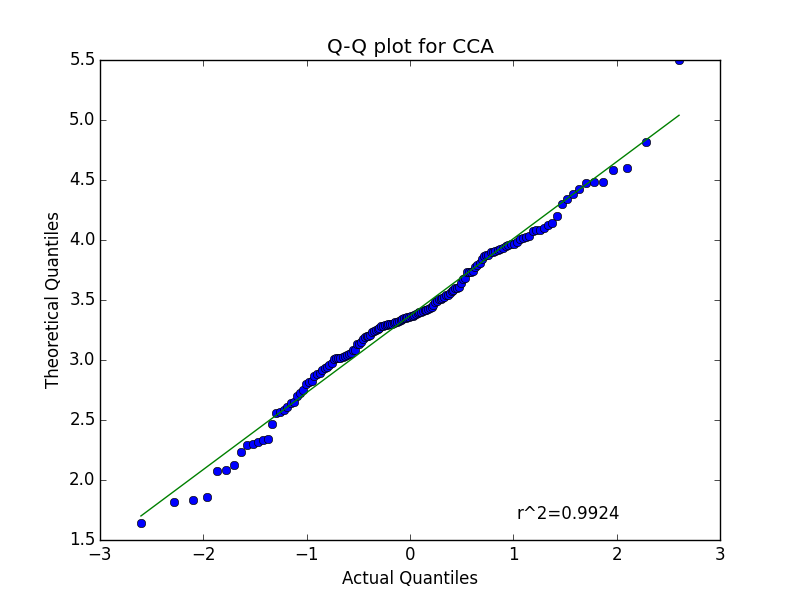
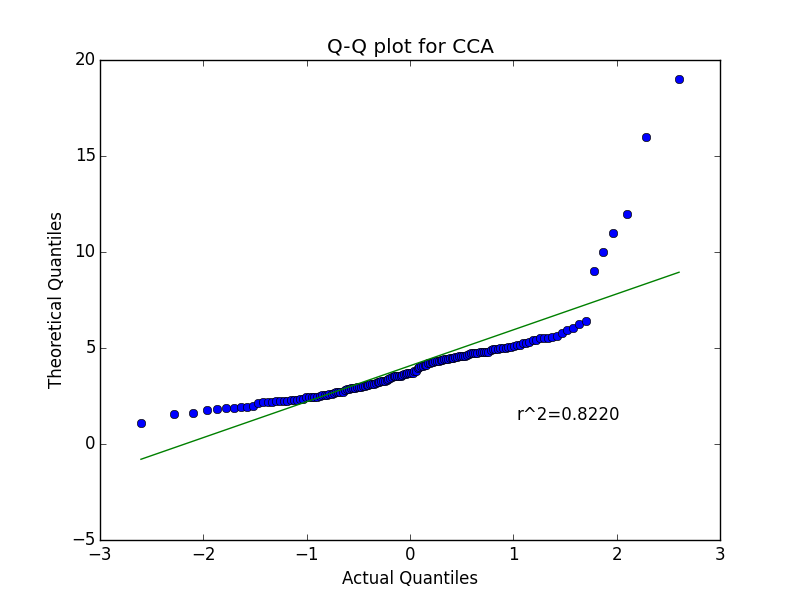
cca

diff --git a/hw3_code_dzbarsky.py b/hw3_code_dzbarsky.py
@@ -725,7 +725,7 @@ def main():
     tvalues[40] = 12
     tvalues[15] = 9
     tvalues[60] = 11
-    #plot_qq_cca(tvalues)
+    plot_qq_cca(tvalues)
     plot_t_values_cca(tvalues)
 
 
